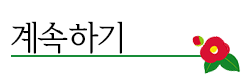
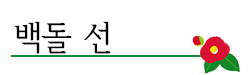
흑돌, 백선 텍스트 변경.

Changed region(s): [[0.028, 0.2667, 0.504, 0.72]]

diff --git a/Gomoku/manager.hpp b/Gomoku/manager.hpp
@@ -208,10 +208,13 @@ private:
             grc::application::shared->setViewController(std::static_pointer_cast<grc::viewcontroller>(gameAiVC));
         };
 
-        mainVC->buttonContinueGame = []()
+        mainVC->buttonContinueGame = [this]()
         {
             spdlog::info("mainVC : button continue game");
             spdlog::critical("mainVC : Not Implement");
+            gameHumanVC->setAiTern(core::color::black);
+            gameHumanVC->clear();
+            grc::application::shared->setViewController(std::static_pointer_cast<grc::viewcontroller>(gameHumanVC));
         };
 
         mainVC->buttonNewGame = [this]()
@@ -219,7 +222,7 @@ private:
             spdlog::info("mainVC : button new game");
             spdlog::critical("mainVC : Not Implement");
 
-            gameHumanVC->setAiTern(core::color::black);
+            gameHumanVC->setAiTern(core::color::white);
             gameHumanVC->clear();
             grc::application::shared->setViewController(std::static_pointer_cast<grc::viewcontroller>(gameHumanVC));
         };
